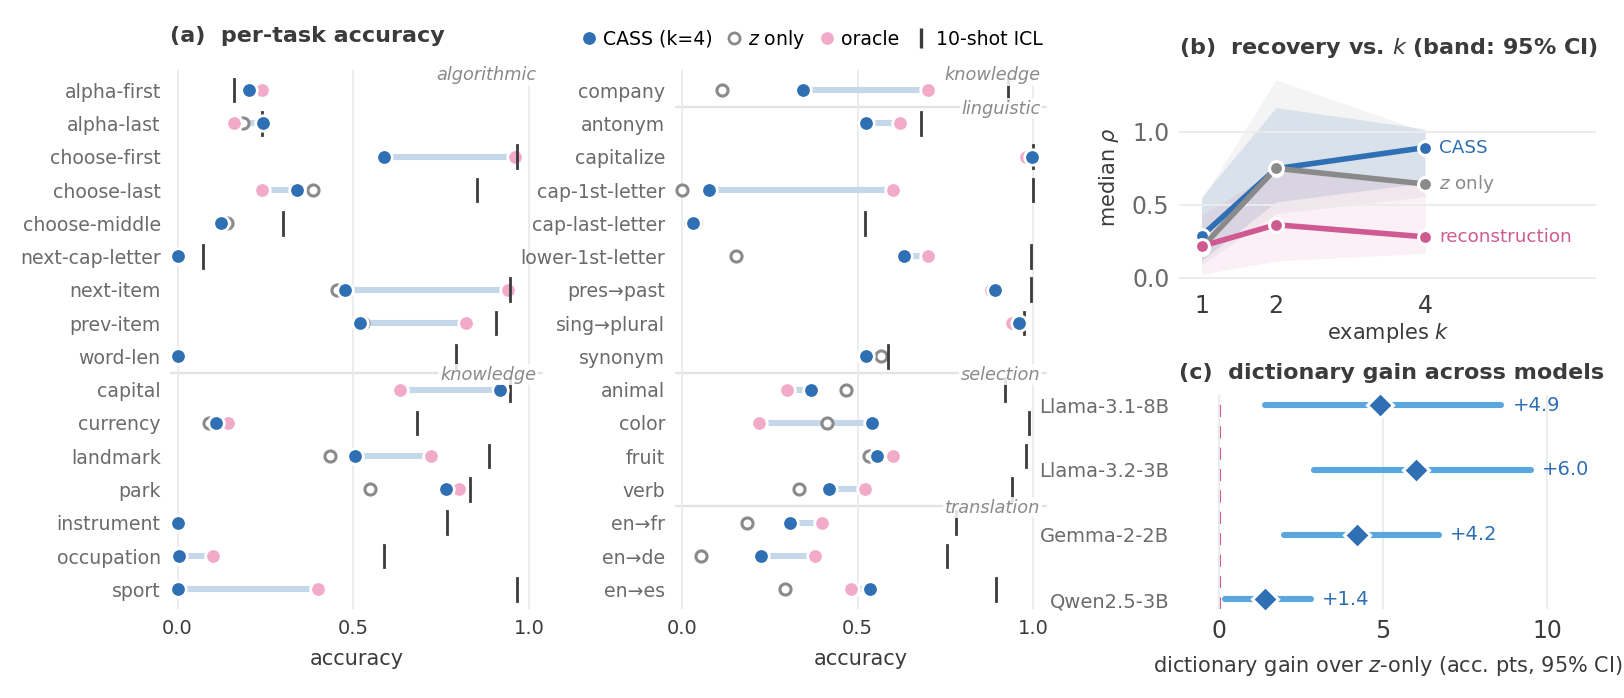
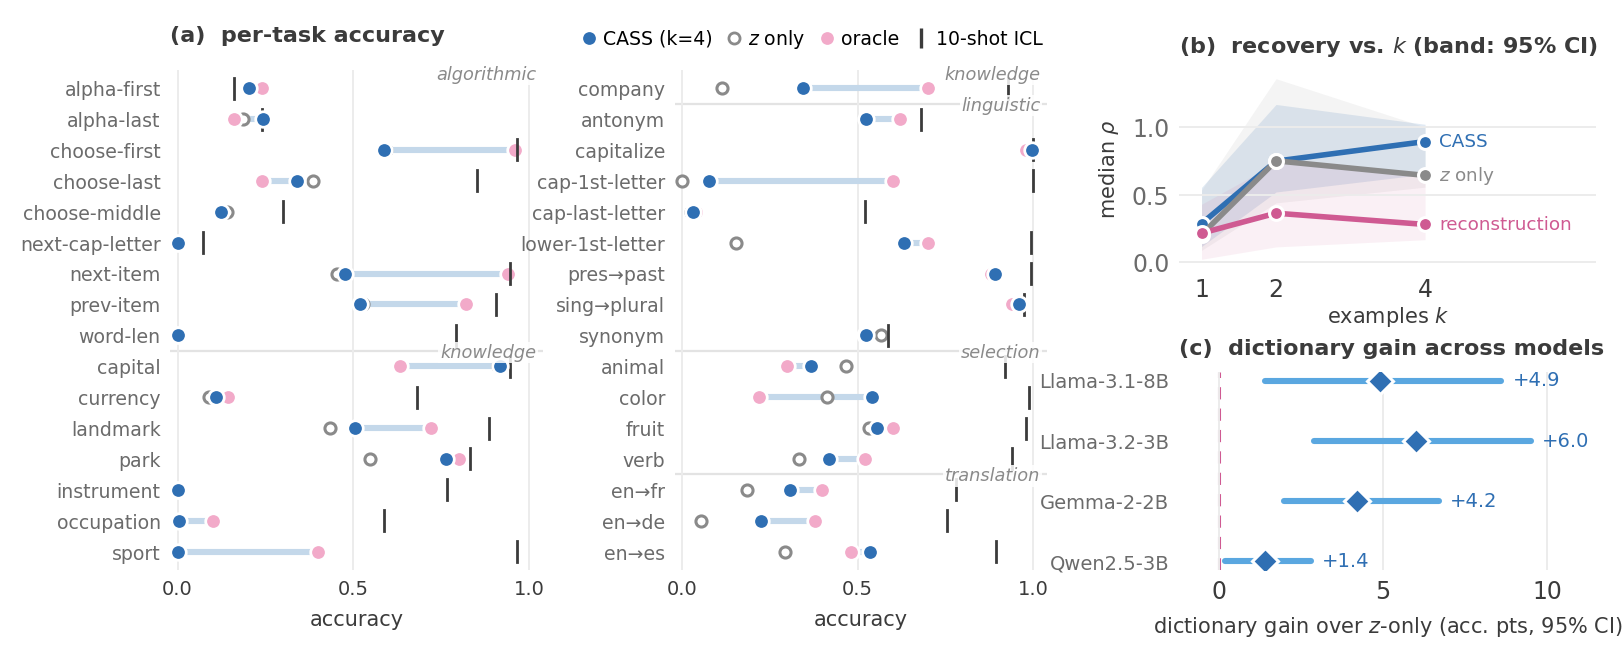
Widen Fig1 pipeline to 0.92\textwidth; trim Fig3 height to compensate

diff --git a/scripts/16_paper_figures.py b/scripts/16_paper_figures.py
@@ -95,7 +95,7 @@ R4 = R[R["k"] == 4].sort_values(["family", "task"]).reset_index(drop=True)
 e1 = pd.read_csv(out / "e1_loto.csv")
 bl = json.load(open(out / "baselines.json"))
 
-fig = plt.figure(figsize=(9.2, 3.5))
+fig = plt.figure(figsize=(9.2, 3.25))
 gs = fig.add_gridspec(2, 3, width_ratios=[1, 1, 1.12], hspace=0.52,
                       wspace=0.34)
 axA1 = fig.add_subplot(gs[:, 0])
